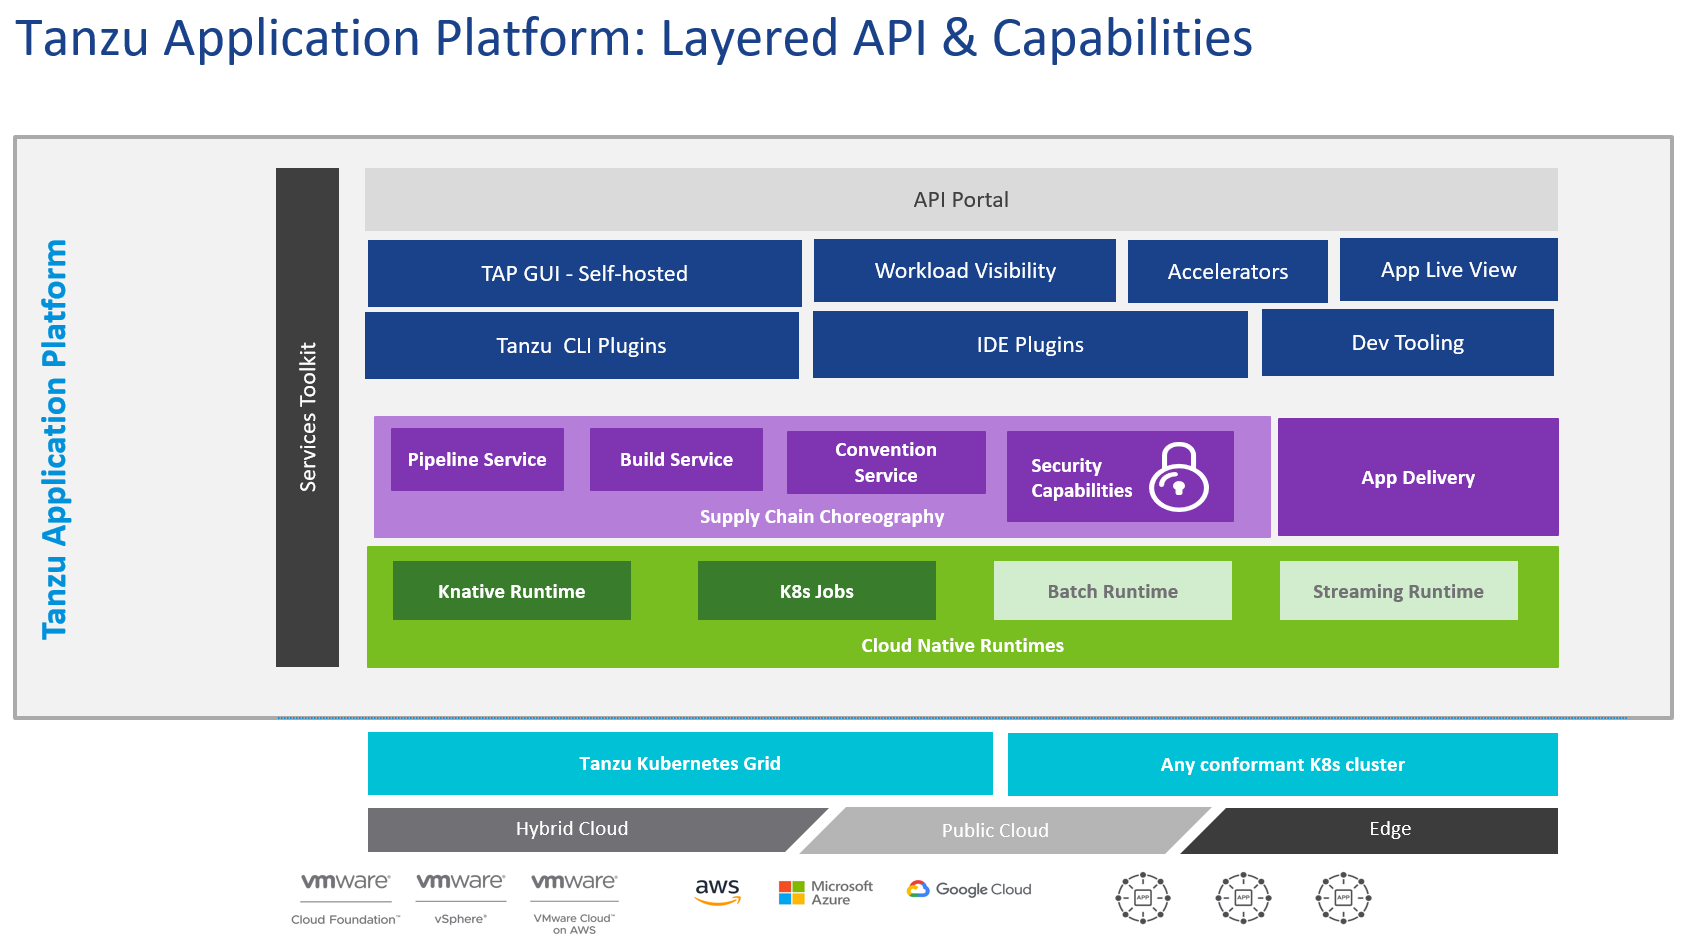
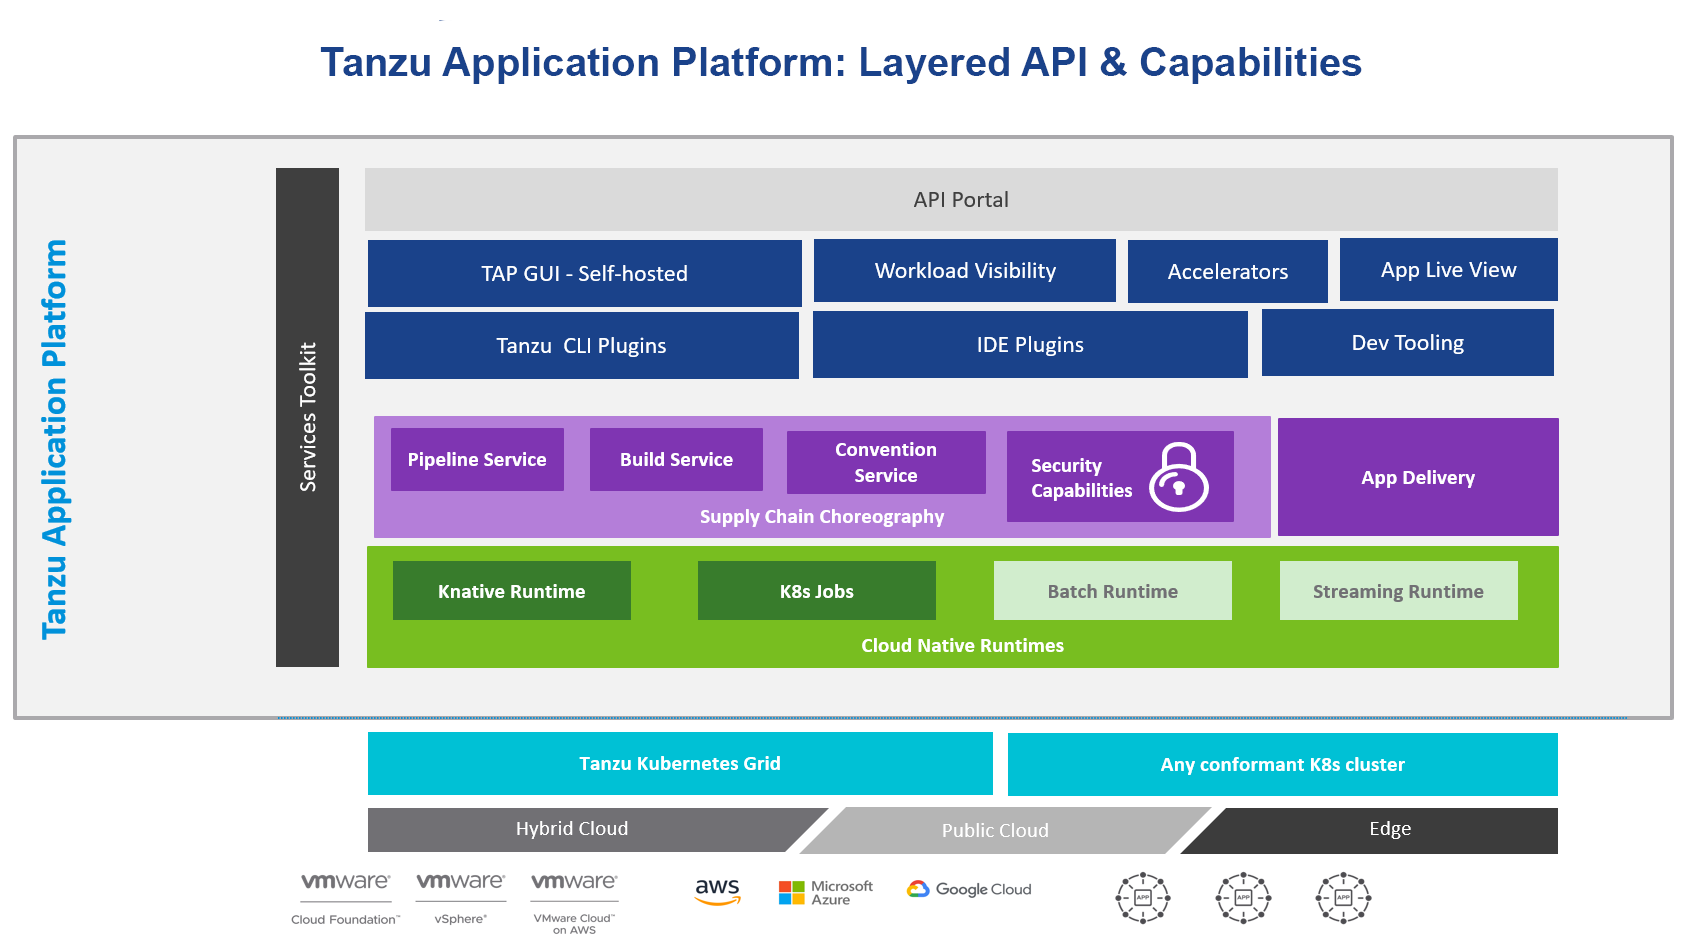
[#182250551] More edits and fixed an image

Changed region(s): [[0.0, 0.0, 0.8029, 0.0924]]

diff --git a/about-package-profiles.md b/about-package-profiles.md
@@ -1,8 +1,169 @@
 # About Tanzu Application Platform package and profiles
 
-You can deploy Tanzu Application Platform through predefined profiles, each containing various packages, or you can install  packages individually. The profiles are designed to allow the Tanzu Application Platform to scale across an organization's multicluster, multicloud, or hybrid cloud infrastructure. These profiles are not meant to cover all customer use cases, but serve as a starting point to allow for further customization.
+Tanzu Application Platform is a modular, composable platform that comprises the following components.
+
+## <a id='TAP-packages'></a> Tanzu Application Platform components
+
+- **[API portal for VMware Tanzu](https://docs.pivotal.io/api-portal)**
+
+  API portal for VMware Tanzu enables API consumers to find APIs they can use in their own
+  applications.
+
+  Consumers can view detailed API documentation and try out an API to see if it meets their needs.
+  API portal assembles its dashboard and detailed API documentation views by ingesting OpenAPI
+  documentation from the source URLs. An API portal operator can add any number of OpenAPI source
+  URLs to be displayed in a single instance.
+
+- **[Application Accelerator for VMware Tanzu](https://docs.vmware.com/en/Application-Accelerator-for-VMware-Tanzu/index.html)**
+
+  The Application Accelerator component helps app developers and app operators through the creation
+  and generation of application accelerators.
+
+  Accelerators are templates that codify best practices and ensure important configurations and
+  structures are in place from the start. Developers can bootstrap their applications and get
+  started with feature development right away.
+
+  Application operators can create custom accelerators that reflect their desired architectures and
+  configurations and enable fleets of developers to use them, decreasing operator concerns about
+  whether developers are implementing their desired best practices.
+
+- **[Application Live View for VMware Tanzu](app-live-view/about-app-live-view.md)**
+
+  Application Live View is a lightweight insight and troubleshooting tool that helps application
+  developers and application operators look inside running applications.
+
+  It is based on the concept of Spring Boot Actuators.
+  Fundamentally, the application provides information from inside the running processes by using
+  endpoints (in our case, HTTP endpoints). Application Live View uses those endpoints to get the
+  data from the application and to interact with it.
+
+- **[Cloud Native Runtimes for VMware Tanzu](https://docs.vmware.com/en/Cloud-Native-Runtimes-for-VMware-Tanzu/index.html)**
+
+  Cloud Native Runtimes for Tanzu is a serverless application runtime for Kubernetes that is based
+  on Knative and runs on a single Kubernetes cluster. For information about Knative, see the
+  [Knative documentation](https://knative.dev/docs/). Cloud Native Runtimes capabilities are included
+  in VMware Tanzu Advanced Edition and VMware Tanzu Application Platform.
+
+- **[Convention Service for VMware Tanzu](convention-service/about.md)**
+
+  The convention service provides a means for people in operational roles to express their hard-won
+  knowledge and opinions about how apps should run on Kubernetes as a convention. The convention
+  service applies these opinions to fleets of developer workloads as they are deployed to the
+  platform, saving operator and developer time.
+
+- **[Default roles for Tanzu Application Platform](authn-authz/overview.md)**
+
+  This package includes five default roles for users including app-editor, app-viewer, app-operator, and service accounts including workload and deliverable. These roles are available to help operators limit the permissions that a user or service account requires on a cluster that runs Tanzu Application Platform. They are built by using aggregated cluster roles in Kubernetes role-based access control (RBAC).
+
+  Default roles only apply to a user interacting with the cluster using kubectl and Tanzu CLI. Tanzu Application Platform GUI support for default roles is planned for a future release.
+
+- **[Developer Conventions](convention-service/about.md)**
+
+  Developer conventions configure workloads to prepare them for inner loop development.
+
+  It’s meant to be a “deploy and forget” component for developers: after it is installed on the
+  cluster with the Tanzu Package CLI, developers do not need to directly interact with it.
+  Developers instead interact with the Tanzu Developer Tools for VSCode IDE Extension or
+  Tanzu CLI Apps plug-in, which rely on the Developer Conventions to modify the workload to enable
+  inner loop capabilities.
+
+- **[Flux Source Controller](https://fluxcd.io/docs/components/source/)**
+
+  The main role of the source management component is to provide a common interface for artifact acquisition.
+
+- **[Grype](https://github.com/anchore/grype)**
+
+  Grype is a vulnerability scanner for container images and file systems.
+
+- **[Services Toolkit](https://docs.vmware.com/en/Services-Toolkit-for-VMware-Tanzu-Application-Platform/index.html)**
+
+  Services Toolkit comprises a number of Kubernetes-native components that support the management,
+  life cycle, discoverability, and connectivity of Service Resources (databases, message queues,
+  DNS records, and so on) on Kubernetes.
+
+- **[Supply Chain Choreographer for VMware Tanzu](scc/about.md)**
+
+  Supply Chain Choreographer is based on open-source [Cartographer](https://cartographer.sh/docs/).
+  It enables app operators to create preapproved paths to production by integrating Kubernetes
+  resources with the elements of their existing toolchains, such as Jenkins.
+
+  Each preapproved supply chain creates a paved road to production. It orchestrates supply chain
+  resources, namely test, build, scan, and deploy, enabling developers to focus on delivering
+  value to their users. Preapproved supply chains also give application operators the peace of mind that all code in
+  production has passed through all the steps of an approved workflow.
+
+- **[Supply Chain Security tools for Tanzu - Scan](scst-scan/overview.md)**
+
+  With Supply Chain Security Tools for VMware Tanzu - Scan, Tanzu customers can build and deploy
+  secure trusted software that complies with their corporate security requirements.
+
+  To enable this, Supply Chain Security Tools - Scan provides scanning and gatekeeping capabilities
+  that Application and DevSecOps teams can incorporate earlier in their path to production.
+  This is an established industry best practice for reducing security risk and ensuring more
+  efficient remediation.
+
+- **[Supply Chain Security Tools - Sign](scst-sign/overview.md)**
+
+  Supply Chain Security Tools - Sign provides an admission controller that allows a cluster operator
+  to specify a policy that allows or denies images from running based on signature verification
+  against public keys. It works with
+  [cosign signature format](https://github.com/sigstore/cosign#quick-start) and allows for fine-tuned
+  configuration based on image source patterns.
+
+- **[Supply Chain Security Tools - Store](scst-store/overview.md)**
+
+  Supply Chain Security Tools - Store saves software bills of materials (SBoMs) to a database and
+  enables you to query for image, source, package, and vulnerability relationships.
+  It integrates with Supply Chain Security Tools - Scan to automatically store the resulting source
+  and image vulnerability reports.
+
+- **[Tanzu Application Platform GUI](tap-gui/about.md)**
+
+  Tanzu Application Platform GUI lets your developers view your organization's running applications
+  and services. It provides a central location for viewing dependencies, relationships, technical
+  documentation, and even service status.
+  Tanzu Application Platform GUI is built from the Cloud Native Computing Foundation's project
+  Backstage.
+
+- **[Tanzu Build Service](tanzu-build-service/tbs-about.md)**
+
+  Tanzu Build Service uses the open-source Cloud Native Buildpacks project to turn application
+  source code into container images.
+
+  Build Service executes reproducible builds that align with modern container standards and keeps
+  images up to date. It does so by leveraging Kubernetes infrastructure with kpack, a Cloud Native
+  Buildpacks Platform, to orchestrate the image life cycle.
+
+  The kpack CLI tool, kp, can aid in managing kpack resources. Build Service helps you
+  develop and automate containerized software workflows securely and at scale.
+
+- **[Tanzu Developer Tools for VSCode](vscode-extension/about.md)**
+
+  Tanzu Developer Tools for Visual Studio Code is the official VMware Tanzu IDE extension for VSCode
+  to help you develop code using the Tanzu Application Platform.
+  The VSCode extension enables live updates of your application while it runs on the cluster and
+  lets you debug your application directly on the cluster.
+
+- **[Tanzu Learning Center](learning-center/about.md)**
+
+  Learning Center provides a platform for creating and self-hosting workshops. With Learning Center, content
+  creators can create workshops from markdown files that learners can view in a terminal
+  shell environment with an instructional wizard UI. The UI can embed slide content, an integrated
+  development environment (IDE), a web console for accessing the Kubernetes cluster, and other custom
+  web applications.
+
+  Although Learning Center requires Kubernetes to run, and it teaches users about Kubernetes,
+  you can use it to host training for other purposes as well. For example, you can use it to train
+  users on web-based applications, use of databases, or programming languages.
+
+- **[Tekton](tekton/tekton-about.md)**
+
+  Tekton is a powerful and flexible open-source framework for creating CI/CD systems, enabling
+  developers to build, test, and deploy across cloud providers and on-premise systems.
 
 ## <a id='profiles-and-packages'></a> Installation profiles in Tanzu Application Platform v1.2
+
+You can deploy Tanzu Application Platform through predefined profiles, each containing various packages, or you can install  packages individually. The profiles are designed to allow the Tanzu Application Platform to scale across an organization's multicluster, multicloud, or hybrid cloud infrastructure. These profiles are not meant to cover all customer use cases, but serve as a starting point to allow for further customization.
 
 The following profiles are available in Tanzu Application Platform:
 

diff --git a/overview.md b/overview.md
@@ -2,7 +2,7 @@
 
 ## <a id='overview'></a> Overview of Tanzu Application Platform
 
-VMware Tanzu Application Platform is a modular application development platform with a rich set
+VMware Tanzu Application Platform is an application development platform with a rich set
 of developer tools. It offers developers a paved path to production to build and deploy software quickly and
 securely on any compliant public cloud or on-premises Kubernetes cluster.
 
@@ -62,167 +62,7 @@ It also allows operators to customize the platform by replacing Tanzu Applicatio
 
 ![Diagram depicting the layered structure of TAP](images/tap-layered-capabilities.png)
 
-## <a id='TAP-packages'></a> Tanzu Application Platform components
-
-The following packages are part of the Tanzu Application Platform:
-
-- **[API portal for VMware Tanzu](https://docs.pivotal.io/api-portal)**
-
-  API portal for VMware Tanzu enables API consumers to find APIs they can use in their own
-  applications.
-
-  Consumers can view detailed API documentation and try out an API to see if it meets their needs.
-  API portal assembles its dashboard and detailed API documentation views by ingesting OpenAPI
-  documentation from the source URLs. An API portal operator can add any number of OpenAPI source
-  URLs to be displayed in a single instance.
-
-- **[Application Accelerator for VMware Tanzu](https://docs.vmware.com/en/Application-Accelerator-for-VMware-Tanzu/index.html)**
-
-  The Application Accelerator component helps app developers and app operators through the creation
-  and generation of application accelerators.
-
-  Accelerators are templates that codify best practices and ensure important configurations and
-  structures are in place from the start. Developers can bootstrap their applications and get
-  started with feature development right away.
-
-  Application operators can create custom accelerators that reflect their desired architectures and
-  configurations and enable fleets of developers to use them, decreasing operator concerns about
-  whether developers are implementing their desired best practices.
-
-- **[Application Live View for VMware Tanzu](app-live-view/about-app-live-view.md)**
-
-  Application Live View is a lightweight insight and troubleshooting tool that helps application
-  developers and application operators look inside running applications.
-
-  It is based on the concept of Spring Boot Actuators.
-  Fundamentally, the application provides information from inside the running processes by using
-  endpoints (in our case, HTTP endpoints). Application Live View uses those endpoints to get the
-  data from the application and to interact with it.
-
-- **[Cloud Native Runtimes for VMware Tanzu](https://docs.vmware.com/en/Cloud-Native-Runtimes-for-VMware-Tanzu/index.html)**
-
-  Cloud Native Runtimes for Tanzu is a serverless application runtime for Kubernetes that is based
-  on Knative and runs on a single Kubernetes cluster. For information about Knative, see the
-  [Knative documentation](https://knative.dev/docs/). Cloud Native Runtimes capabilities are included
-  in VMware Tanzu Advanced Edition and VMware Tanzu Application Platform.
-
-- **[Convention Service for VMware Tanzu](convention-service/about.md)**
-
-  The convention service provides a means for people in operational roles to express their hard-won
-  knowledge and opinions about how apps should run on Kubernetes as a convention. The convention
-  service applies these opinions to fleets of developer workloads as they are deployed to the
-  platform, saving operator and developer time.
-
-- **[Default roles for Tanzu Application Platform](authn-authz/overview.md)**
-
-  This package includes five default roles for users including app-editor, app-viewer, app-operator, and service accounts including workload and deliverable. These roles are available to help operators limit the permissions that a user or service account requires on a cluster that runs Tanzu Application Platform. They are built by using aggregated cluster roles in Kubernetes role-based access control (RBAC).
-
-  Default roles only apply to a user interacting with the cluster using kubectl and Tanzu CLI. Tanzu Application Platform GUI support for default roles is planned for a future release.
-
-- **[Developer Conventions](convention-service/about.md)**
-
-  Developer conventions configure workloads to prepare them for inner loop development.
-
-  It’s meant to be a “deploy and forget” component for developers: after it is installed on the
-  cluster with the Tanzu Package CLI, developers do not need to directly interact with it.
-  Developers instead interact with the Tanzu Developer Tools for VSCode IDE Extension or
-  Tanzu CLI Apps plug-in, which rely on the Developer Conventions to modify the workload to enable
-  inner loop capabilities.
-
-- **[Flux Source Controller](https://fluxcd.io/docs/components/source/)**
-
-  The main role of the source management component is to provide a common interface for artifact acquisition.
-
-- **[Grype](https://github.com/anchore/grype)**
-
-  Grype is a vulnerability scanner for container images and file systems.
-
-- **[Services Toolkit](https://docs.vmware.com/en/Services-Toolkit-for-VMware-Tanzu-Application-Platform/index.html)**
-
-  Services Toolkit comprises a number of Kubernetes-native components that support the management,
-  life cycle, discoverability, and connectivity of Service Resources (databases, message queues,
-  DNS records, and so on) on Kubernetes.
-
-- **[Supply Chain Choreographer for VMware Tanzu](scc/about.md)**
-
-  Supply Chain Choreographer is based on open-source [Cartographer](https://cartographer.sh/docs/).
-  It enables app operators to create preapproved paths to production by integrating Kubernetes
-  resources with the elements of their existing toolchains, such as Jenkins.
-
-  Each preapproved supply chain creates a paved road to production. It orchestrates supply chain
-  resources, namely test, build, scan, and deploy, enabling developers to focus on delivering
-  value to their users. Preapproved supply chains also give application operators the peace of mind that all code in
-  production has passed through all the steps of an approved workflow.
-
-- **[Supply Chain Security tools for Tanzu - Scan](scst-scan/overview.md)**
-
-  With Supply Chain Security Tools for VMware Tanzu - Scan, Tanzu customers can build and deploy
-  secure trusted software that complies with their corporate security requirements.
-
-  To enable this, Supply Chain Security Tools - Scan provides scanning and gatekeeping capabilities
-  that Application and DevSecOps teams can incorporate earlier in their path to production.
-  This is an established industry best practice for reducing security risk and ensuring more
-  efficient remediation.
-
-- **[Supply Chain Security Tools - Sign](scst-sign/overview.md)**
-
-  Supply Chain Security Tools - Sign provides an admission controller that allows a cluster operator
-  to specify a policy that allows or denies images from running based on signature verification
-  against public keys. It works with
-  [cosign signature format](https://github.com/sigstore/cosign#quick-start) and allows for fine-tuned
-  configuration based on image source patterns.
-
-- **[Supply Chain Security Tools - Store](scst-store/overview.md)**
-
-  Supply Chain Security Tools - Store saves software bills of materials (SBoMs) to a database and
-  enables you to query for image, source, package, and vulnerability relationships.
-  It integrates with Supply Chain Security Tools - Scan to automatically store the resulting source
-  and image vulnerability reports.
-
-- **[Tanzu Application Platform GUI](tap-gui/about.md)**
-
-  Tanzu Application Platform GUI lets your developers view your organization's running applications
-  and services. It provides a central location for viewing dependencies, relationships, technical
-  documentation, and even service status.
-  Tanzu Application Platform GUI is built from the Cloud Native Computing Foundation's project
-  Backstage.
-
-- **[Tanzu Build Service](tanzu-build-service/tbs-about.md)**
-
-  Tanzu Build Service uses the open-source Cloud Native Buildpacks project to turn application
-  source code into container images.
-
-  Build Service executes reproducible builds that align with modern container standards and keeps
-  images up to date. It does so by leveraging Kubernetes infrastructure with kpack, a Cloud Native
-  Buildpacks Platform, to orchestrate the image life cycle.
-
-  The kpack CLI tool, kp, can aid in managing kpack resources. Build Service helps you
-  develop and automate containerized software workflows securely and at scale.
-
-- **[Tanzu Developer Tools for VSCode](vscode-extension/about.md)**
-
-  Tanzu Developer Tools for Visual Studio Code is the official VMware Tanzu IDE extension for VSCode
-  to help you develop code using the Tanzu Application Platform.
-  The VSCode extension enables live updates of your application while it runs on the cluster and
-  lets you debug your application directly on the cluster.
-
-- **[Tanzu Learning Center](learning-center/about.md)**
-
-  Learning Center provides a platform for creating and self-hosting workshops. With Learning Center, content
-  creators can create workshops from markdown files that learners can view in a terminal
-  shell environment with an instructional wizard UI. The UI can embed slide content, an integrated
-  development environment (IDE), a web console for accessing the Kubernetes cluster, and other custom
-  web applications.
-
-  Although Learning Center requires Kubernetes to run, and it teaches users about Kubernetes,
-  you can use it to host training for other purposes as well. For example, you can use it to train
-  users on web-based applications, use of databases, or programming languages.
-
-- **[Tekton](tekton/tekton-about.md)**
-
-  Tekton is a powerful and flexible open-source framework for creating CI/CD systems, enabling
-  developers to build, test, and deploy across cloud providers and on-premise systems.
-
+For more information about Tanzu Application Platform components, see [About Tanzu Application Platform package and profiles](about-package-profiles.md).
 
 ## <a id='telemetry-notice'></a> Notice of telemetry collection for Tanzu Application Platform
 
